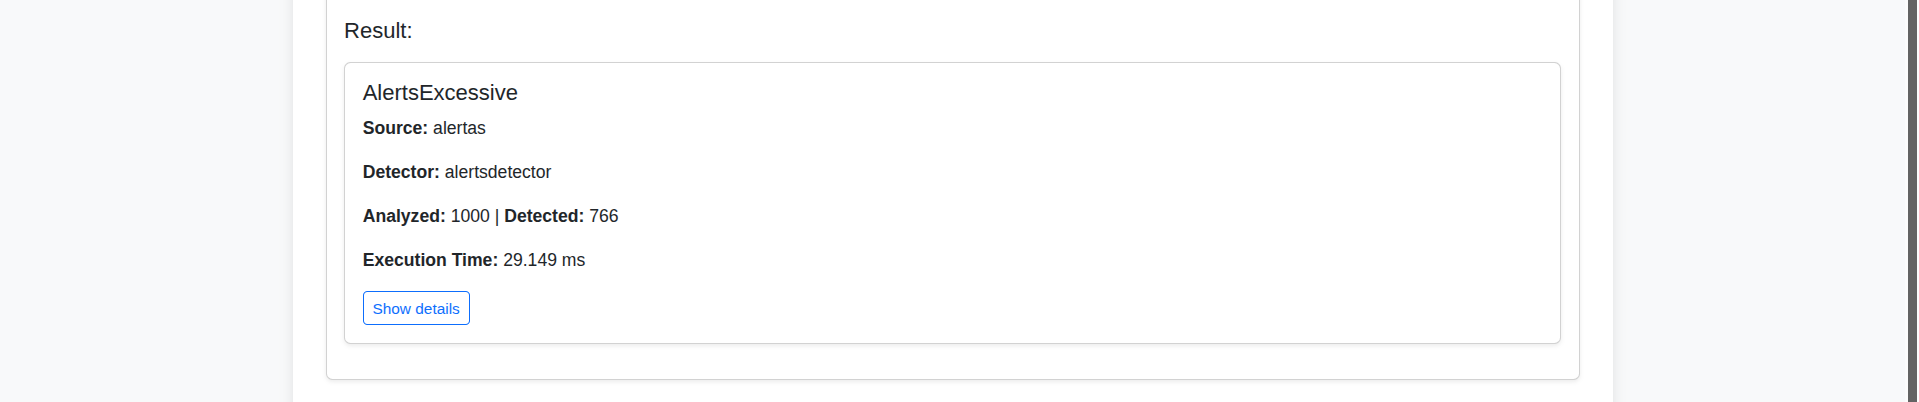
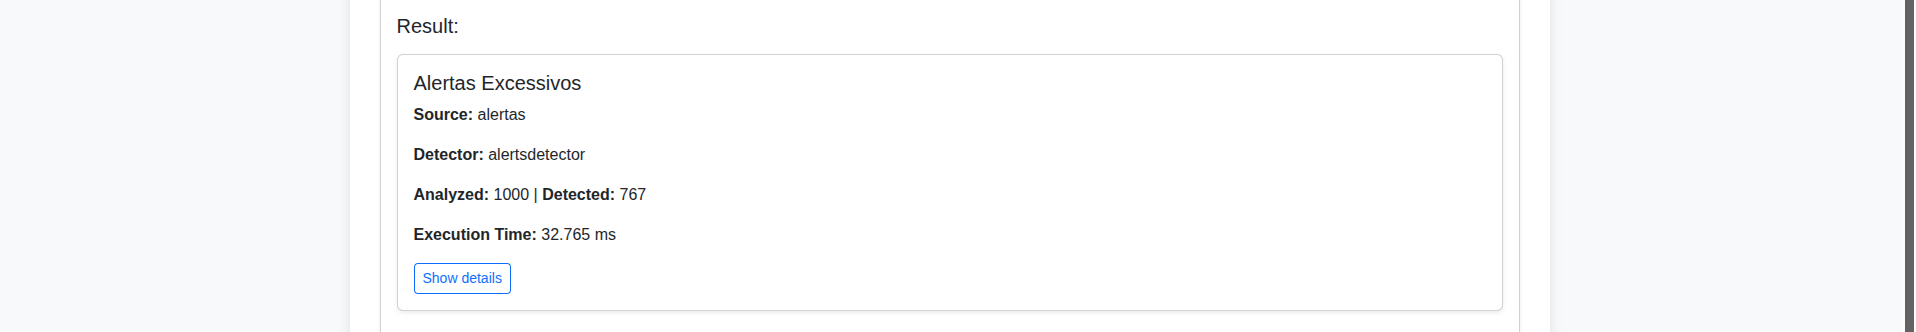
add

diff --git a/README.md b/README.md
@@ -73,15 +73,17 @@ No meu caso, o retorno foi *192.168.1.131*.
 
 **Passo 5:** Após adiciona fonte de dados e detector, o próximo passo é a execução. Clique na aba *Detection*. Para a poc, foi escolhido o modo direto, apenas uma execução, sem ser de maneira periódica, pois os dados são estáticos e não teria alteração do resultado. Clique em *Run Detector*
 
-**Passo 6:** Verifique o resultado. É possível ver a quantidade de alertas (1000) e a quantidade de elementos que foram detectados como excessivos (766).
+**Passo 6:** Verifique o resultado. É possível ver a quantidade de alertas (1000) e a quantidade de elementos que foram detectados como excessivos (767).
 
 ![Visão Geral dos Resultados da Detecção de Alertas Excessivos](images/poc-resultalerts.png)
 
 **Passo 7:** Caso queira mais detalhes, clique em *Show details*. É possível verificar o casos que são excessivos e os que não são excessivos.
 
-![Detalhes de Alertas Detectados como Excessivos](images/poc-resultsalerts2.png)
+![Detalhes de Alertas Detectados como Excessivos - Baseado em Limite](images/poc-resultsalerts2.png)
 
-![Detalhes de Alertas não Detectados como Excessivos](images/poc-resultsalerts3.png)
+![Detalhes de Alertas Detectados como Excessivos - Baseado em Redundância](images/poc-resultsalerts3.png)
+
+![Detalhes de Alertas não Detectados como Excessivos](images/poc-resultsalerts4.png)
 
 **Passo 8:** Caso queira visualizar o histórico das execuções, clique na aba *History*. Escolha a fonte de dados, o detector e o período do histórico e clique em *Search*. Você vai visualizar todas as execuções, em formato de barra vertical, e pode verificar os detalhes de cada uma delas, clicando na barra.
 
